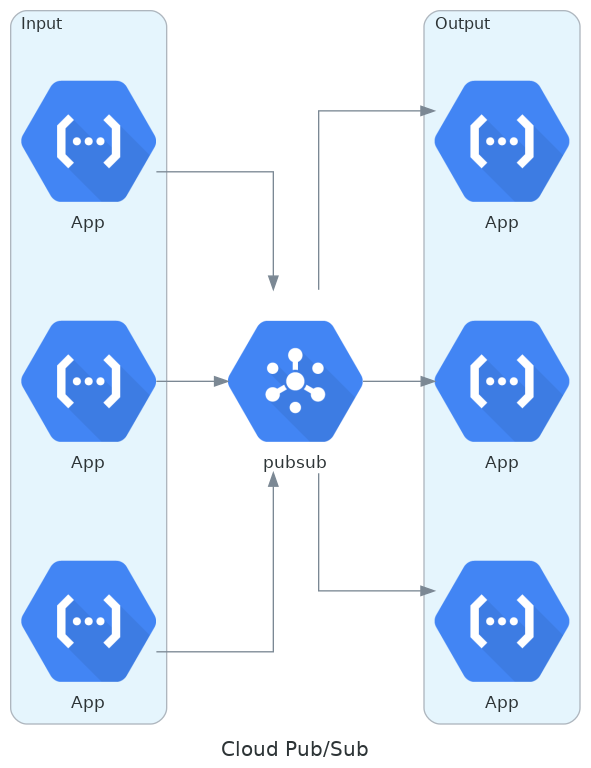
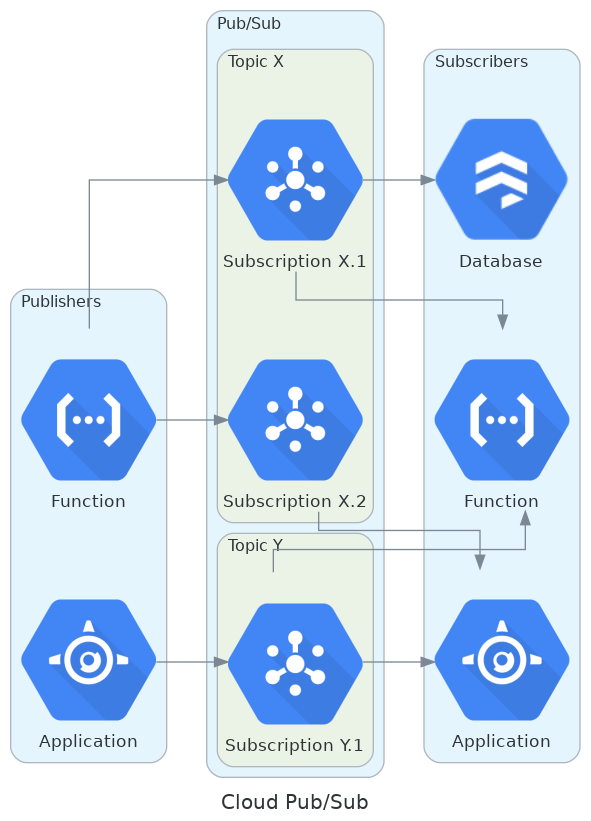
Updated Pub/Sub documentation. DAT-3944

diff --git a/diagrams/diagram.py b/diagrams/diagram.py
@@ -1,6 +1,7 @@
 from diagrams import Cluster, Diagram
 from diagrams.gcp.analytics import PubSub
-from diagrams.gcp.compute import Functions
+from diagrams.gcp.compute import AppEngine, Functions
+from diagrams.gcp.database import Firestore
 
 graph_attr = {
     "bgcolor": "transparent",
@@ -8,16 +9,23 @@ graph_attr = {
 }
 
 with Diagram("Cloud Pub/Sub", graph_attr=graph_attr, show=False, filename="cloud_pubsub"):
-    pubsub = PubSub("pubsub")
+    with Cluster("Publishers"):
+        pub_1 = Functions("Function")
+        pub_2 = AppEngine("Application")
 
-    with Cluster("Input"):
-        input = [Functions("App"),
-                 Functions("App"),
-                 Functions("App")]
+    with Cluster("Subscribers"):
+        sub_1 = Functions("Function")
+        sub_2 = Firestore("Database")
+        sub_3 = AppEngine("Application")
 
-    with Cluster("Output"):
-        output = [Functions("App"),
-                  Functions("App"),
-                  Functions("App")]
+    with Cluster("Pub/Sub"):
+        with Cluster("Topic X"):
+            sub_x1 = PubSub("Subscription X.1")
+            sub_x2 = PubSub("Subscription X.2")
 
-    input >> pubsub >> output
+        with Cluster("Topic Y"):
+            sub_y1 = PubSub("Subscription Y.1")
+
+    pub_1 >> sub_x1 >> [sub_1, sub_2]
+    pub_1 >> sub_x2 >> sub_3
+    pub_2 >> sub_y1 >> [sub_1, sub_3]

diff --git a/README.md b/README.md
@@ -11,6 +11,9 @@ truth, capturing all information and business events, enabling the data-driven e
     3. [Serverless](#serverless)
     4. [Security by design](#security-by-design)
     5. [Data integrated](#data-integrated)
+2. [Components](#components)
+    1. [Pub/Sub](#pubsub)
+3. [References](#references)
 
 ## Principles
 The Operational Data Hub, hereafter called “ODH”, is built from the ground up based on six basic principles. These 
@@ -69,9 +72,16 @@ it allows for secure and highly available communication between independently wr
 compared to Apache Kafka; a publish-subscribe based durable messaging system. This messaging system is a central hub 
 via which multiple applications communicate with each based on event-driven messages.
 
+Pub/Sub exists of two key components: topics and subscriptions. A topic can have multiple subscriptions that each have 
+their own purpose. A message is published by a publisher towards a topic where it is added to the end of the message-bus. 
+Thereafter, each subscription can process the message in their own way. Some subscriptions need a function 
+(a subscriber) to retrieve  the data, where some push data towards certain functions, applications or databases. 
+Because a topic can have “endless” subscriptions, the scalability is enormous and each message can be used by 
+different processes.
+
 <img src="diagrams/png/cloud_pubsub.png" height="300" title="Cloud Pub/Sub" alt="Cloud Pub/Sub">
 
-As seen in the example above, Cloud Pub/Sub is the connection between different applications and functions. 
+As seen in the example above, Cloud Pub/Sub is the connection between different applications, functions and databases. 
 This centralized hub to navigate all data through is the strength of the ODH; all data passes through one place that 
 enables easier connections between applications and a single source of truth, hereafter called “SSOT”. This SSOT enables 
 the platform to not only provide a dynamic state of the art infrastructure but also endless possibilities for data 
@@ -80,5 +90,5 @@ research to optimize and innovate.
 ## References
 - Opensource.com. (n.d.). What is open source? Retrieved July 30, 2020, 
 from https://opensource.com/resources/what-open-source
-- Qwiklabs. (2020, Jan 10). Introduction to Google Cloud Pub/Sub. Retrieved August 10, 2020, 
+- Qwiklabs. (2020, January 10). Introduction to Google Cloud Pub/Sub. Retrieved August 10, 2020, 
 from https://medium.com/@qwiklabs/introduction-to-google-cloud-pub-sub-fce6a31aea9f
